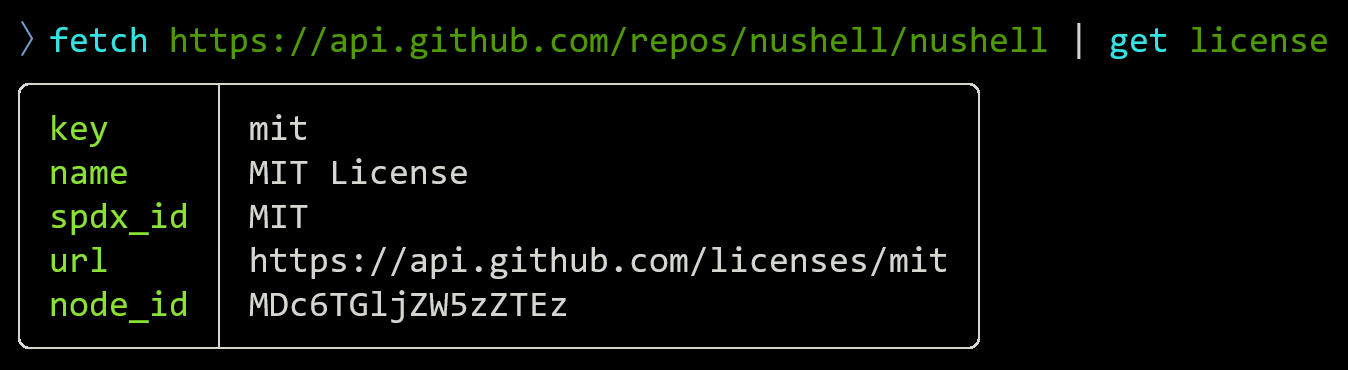
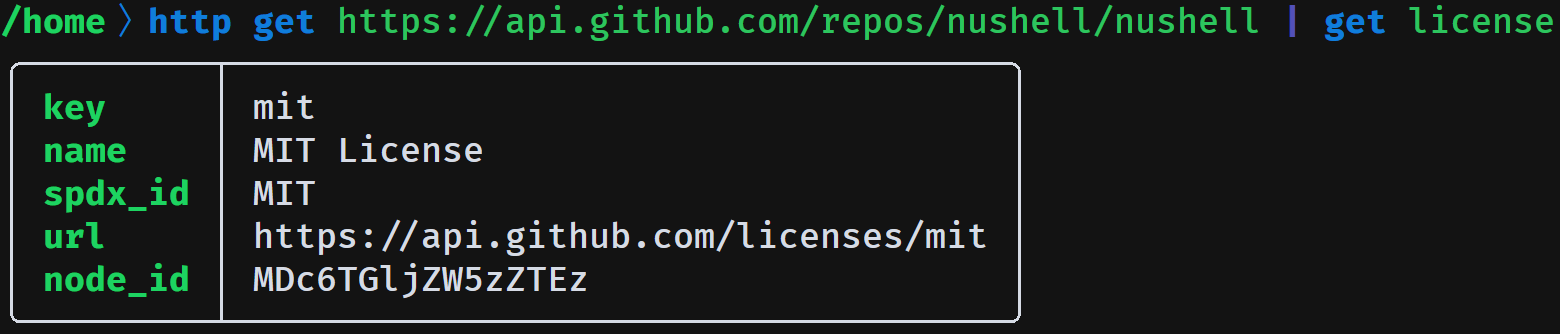
replaces fetch with http in varius places (#769)
* Updated cookbook with http get instead of fetch.

* updates fetch to http where i could find it.

* updated fetch example image with http get.

* Update mapa_imperativo_nushell.md

* Updated with higher res image.

Changed region(s): [[0.0, 0.1796, 0.7166, 0.988], [0.0, 0.0, 0.997, 0.1796], [0.1558, 0.2695, 0.3427, 0.509]]

diff --git a/book/nushell_map_imperative.md b/book/nushell_map_imperative.md
@@ -16,7 +16,7 @@ Note: this table assumes Nu 0.43 or later.
 | du           | shutil.disk_usage             |                                                     |                         |                                               |
 | each         | for                           | for                                                 | for                     | for                                           |
 | exit         | exit                          | System.exit, kotlin.system.exitProcess              | exit                    | exit                                          |
-| fetch        | urllib.request.urlopen        |                                                     |                         |                                               |
+| http get     | urllib.request.urlopen        |                                                     |                         |                                               |
 | first        | list[:x]                      | List[0], peek                                       | vector[0], top          | Vec[0]                                        |
 | format       | format                        | format                                              | format                  | format!                                       |
 | from         | csv, json, sqlite3            |                                                     |                         |                                               |
@@ -40,7 +40,7 @@ Note: this table assumes Nu 0.43 or later.
 | get          | list[x]                       | List[x]                                             | vector[x]               | Vec[x]                                        |
 | open         | open                          |                                                     |                         |                                               |
 | transpose    | zip(\*matrix)                 |                                                     |                         |                                               |
-| post         | urllib.request.urlopen        |                                                     |                         |                                               |
+| http post    | urllib.request.urlopen        |                                                     |                         |                                               |
 | prepend      | deque.appendleft              |                                                     |                         |                                               |
 | print        | print                         | println                                             | printf                  | println!                                      |
 | ps           | os.listdir('/proc')           |                                                     |                         |                                               |
@@ -74,4 +74,3 @@ Note: this table assumes Nu 0.43 or later.
 | where        | filter                        | filter                                              | filter                  | filter                                        |
 | which        | shutil.which                  |                                                     |                         |                                               |
 | wrap         | { "key" : val }               |                                                     |                         |                                               |
-

diff --git a/ja/book/nushell_map.md b/ja/book/nushell_map.md
@@ -31,7 +31,6 @@
 | enter             | -                                                | -                                                    |                                            |                                                 |
 | evaluate_by       |                                                  |                                                      |                                            |                                                 |
 | exit              | -                                                |                                                      | exit                                       | exit                                            |
-| fetch(`*`)        | -                                                | HttpClient,WebClient, HttpWebRequest/Response        | Invoke-WebRequest                          | wget                                            |
 | first             | top, limit                                       | First, FirstOrDefault                                | Select-Object -First                       | head                                            |
 | format            |                                                  | String.Format                                        | String.Format                              |                                                 |
 | from              | import flatfile, openjson, cast(variable as xml) | -                                                    | Import/ConvertFrom-{Csv,Xml,Html,Json}     |                                                 |
@@ -41,6 +40,7 @@
 | help              | sp_help                                          | -                                                    | Get-Help, help, man                        | man                                             |
 | histogram         | -                                                | -                                                    |                                            |                                                 |
 | history           | -                                                | -                                                    | Get-History, history                       | history                                         |
+| http(`*`)         | -                                                | HttpClient,WebClient, HttpWebRequest/Response        | Invoke-WebRequest                          | wget                                            |
 | inc(`*`)          | -                                                |                                                      | -                                          | -                                               |
 | insert            |                                                  |                                                      | Add-Member                                 |                                                 |
 | is_empty          | is null                                          | String.InNullOrEmpty                                 | String.InNullOrEmpty                       |                                                 |

diff --git a/zh-CN/book/nushell_map.md b/zh-CN/book/nushell_map.md
@@ -27,7 +27,6 @@
 | echo                   | print, union all              |   -                                                  | Write-Output, write                        | echo                                            |
 | enter                  |   -                           |   -                                                  |                                            |                                                 |
 | exit                   |   -                           |                                                      | exit                                       | exit                                            |
-| fetch                  |   -                           | HttpClient,WebClient, HttpWebRequest/Response        | Invoke-WebRequest                          | wget                                            |
 | first                  | top, limit                    | First, FirstOrDefault                                | Select-Object -First                       | head                                            |
 | format                 |                               | String.Format                                        | String.Format                              |                                                 |
 | from                   | import flatfile, openjson, cast(variable as xml) |   -                               | Import/ConvertFrom-{Csv,Xml,Html,Json}     |                                                 |
@@ -37,6 +36,7 @@
 | help                   | sp_help                       |   -                                                  | Get-Help, help, man                        | man                                             |
 | histogram              |   -                           |   -                                                  |                                            |                                                 |
 | history                |   -                           |   -                                                  | Get-History, history                       | history                                         |
+| http(`*`)              |   -                           | HttpClient,WebClient, HttpWebRequest/Response        | Invoke-WebRequest                         | wget                                          |
 | inc(`*`)               |   -                           |                                                      |   -                                        |   -                                             |
 | is_empty               | is null                       | String.InNullOrEmpty                                 | String.InNullOrEmpty                       |                                                 |
 | keep, =take            | top, limit                    | Take                                                 | Select-Object -First                       | head                                            |

diff --git a/es/book/mapa_nushell.md b/es/book/mapa_nushell.md
@@ -31,7 +31,6 @@ Nota: Esta tabla asume Nu 0.14.1 o posterior.
 | enter           | N/A                           | N/A                                                  |                                            |                                                 |
 | evaluate_by     |                               |                                                      |                                            |                                                 |
 | exit            | N/A                           |                                                      | exit                                       | exit                                            |
-| fetch(`*`)      | N/A                           | HttpClient,WebClient, HttpWebRequest/Response        | Invoke-WebRequest                          | wget                                            |
 | first           | top, limit                    | First, FirstOrDefault                                | Select-Object -First                       | head                                            |
 | format          |                               | String.Format()                                      | String.Format()                            |                                                 |
 | from bson       | N/A                           | N/A                                                  | N/A                                        |                                                 |
@@ -56,6 +55,7 @@ Nota: Esta tabla asume Nu 0.14.1 o posterior.
 | help            | sp_help                       | N/A                                                  | Get-Help, help, man                        | man                                             |
 | histogram       | N/A                           | N/A                                                  |                                            |                                                 |
 | history         | N/A                           | N/A                                                  | Get-History, history                       | history                                         |
+| http(`*`)       | N/A                           | HttpClient,WebClient, HttpWebRequest/Response        | Invoke-WebRequest                          | wget                                            |
 | inc(`*`)        | N/A                           |                                                      | N/A                                        | N/A                                             |
 | insert          |                               |                                                      | Add-Member                                 |                                                 |
 | is_empty        | is null                       | String.InNullOrEmpty()                               | String.InNullOrEmpty()                     |                                                 |

diff --git a/zh-CN/book/nushell_map_functional.md b/zh-CN/book/nushell_map_functional.md
@@ -29,7 +29,6 @@
 | echo                      | println                      |                                 | putStrLn, print          |     |
 | enter                     |                              |                                 |                          |     |
 | exit                      | System/exit                  |                                 |                          |     |
-| fetch(`*`)                |                              |                                 |                          |     |
 | first                     | first                        | head                            | head                     |     |
 | format                    | format                       |                                 | Text.Printf.printf       |     |
 | from                      |                              |                                 |                          |     |
@@ -39,6 +38,7 @@
 | help                      | doc                          |                                 |                          |     |
 | histogram                 |                              |                                 |                          |     |
 | history                   |                              |                                 |                          |     |
+| http(`*`)                 |                              |                                 |                          |     |
 | inc(`*`)                  | inc                          |                                 | succ                     |     |
 | insert                    |                              |                                 |                          |     |
 | is-empty                  | empty?                       | isEmpty                         |                          |     |
@@ -82,7 +82,7 @@
 | split column              |                              |                                 |                          |     |
 | split row                 |                              |                                 |                          |     |
 | str(`*`)                  | clojure.string functions     | String functions                |                          |     |
-| str join               | join                         | concat                          | intercalate              |     |
+| str join                  | join                         | concat                          | intercalate              |     |
 | str trim                  | trim, triml, trimr           | trim, trimLeft, trimRight       | strip                    |     |
 | sum                       | apply +                      | sum                             | sum                      |     |
 | sys                       |                              |                                 |                          |     |

diff --git a/ja/book/nushell_map_imperative.md b/ja/book/nushell_map_imperative.md
@@ -30,7 +30,6 @@
 | enter             |                               |                                                     |                         |                                               |
 | evaluate_by       |                               |                                                     |                         |                                               |
 | exit              | exit                          | System.exit, kotlin.system.exitProcess              | exit                    | exit                                          |
-| fetch(`*`)        | urllib.request.urlopen        |                                                     |                         |                                               |
 | first             | list[0]                       | List[0], peek                                       | vector[0], top          | Vec[0]                                        |
 | format            | format                        | format                                              | format                  | format!                                       |
 | from              | csv, json, sqlite3            |                                                     |                         |                                               |
@@ -40,6 +39,7 @@
 | help              | help                          |                                                     |                         |                                               |
 | histogram         |                               |                                                     |                         |                                               |
 | history           |                               |                                                     |                         |                                               |
+| http(`*`)        | urllib.request.urlopen        |                                                     |                         |                                               |
 | inc(`*`)          | x += 1                        | x++                                                 | x++                     | x += 1                                        |
 | insert            | list.insert                   |                                                     |                         |                                               |
 | is_empty          | is None                       | isEmpty                                             | empty                   | is_empty                                      |

diff --git a/cookbook/help.md b/cookbook/help.md
@@ -38,43 +38,44 @@ Output
 To find more specific information on a command, use `help <COMMAND>`.
 
 ```shell
-> help fetch
+> help http get
 ```
 
 Output
 
 ```
-Fetch the contents from a URL (HTTP GET operation).
+Fetch the contents from a URL.
+
+Performs HTTP GET operation.
+
+Search terms: network, fetch, pull, request, download, curl, wget
 
 Usage:
-  > fetch {flags} <URL>
+  > http get {flags} <URL>
 
 Flags:
-  -h, --help
-      Display this help message
-  -u, --user <Any>
-      the username when authenticating
-  -p, --password <Any>
-      the password when authenticating
-  -t, --timeout <Int>
-      timeout period in seconds
-  -H, --headers <Any>
-      custom headers you want to add
-  -r, --raw
-      fetch contents as text rather than a table
+  -h, --help - Display the help message for this command
+  -u, --user <Any> - the username when authenticating
+  -p, --password <Any> - the password when authenticating
+  -t, --timeout <Int> - timeout period in seconds
+  -H, --headers <Any> - custom headers you want to add
+  -r, --raw - fetch contents as text rather than a table
+
+Signatures:
+  <nothing> | http get <string> -> <any>
 
 Parameters:
-  URL: the URL to fetch the contents from
+  URL <string>: the URL to fetch the contents from
 
 Examples:
-  Fetch content from url.com
-  > fetch url.com
+  http get content from example.com
+  > http get https://www.example.com
 
-  Fetch content from url.com, with username and password
-  > fetch -u myuser -p mypass url.com
+  http get content from example.com, with username and password
+  > http get -u myuser -p mypass https://www.example.com
 
-  Fetch content from url.com, with custom header
-  > fetch -H [my-header-key my-header-value] url.com
+  http get content from example.com, with custom header
+  > http get -H [my-header-key my-header-value] https://www.example.com
 ```
 
 ---

diff --git a/book/nushell_map.md b/book/nushell_map.md
@@ -19,7 +19,7 @@ Note: this table assumes Nu 0.43 or later.
 | du                     |                               |                                                      |                                            | du                                              |
 | each                   | cursor                        |                                                      | ForEach-Object, foreach, for               |                                                 |
 | exit                   |                               |                                                      | exit                                       | exit                                            |
-| fetch                  |                               | HttpClient,WebClient, HttpWebRequest/Response        | Invoke-WebRequest                          | wget                                            |
+| http                   |                               | HttpClient,WebClient, HttpWebRequest/Response        | Invoke-WebRequest                          | wget                                            |
 | first                  | top, limit                    | First, FirstOrDefault                                | Select-Object -First                       | head                                            |
 | format                 |                               | String.Format                                        | String.Format                              |                                                 |
 | from                   | import flatfile, openjson, cast(variable as xml) |                                   | Import/ConvertFrom-{Csv,Xml,Html,Json}     |                                                 |

diff --git a/ja/book/nushell_map_functional.md b/ja/book/nushell_map_functional.md
@@ -30,7 +30,6 @@
 | enter             |                              |                                 |                          |     |
 | evaluate_by       |                              |                                 |                          |     |
 | exit              | System/exit                  |                                 |                          |     |
-| fetch(`*`)        |                              |                                 |                          |     |
 | first             | first                        | head                            | head                     |     |
 | format            | format                       |                                 | Text.Printf.printf       |     |
 | from              |                              |                                 |                          |     |
@@ -40,6 +39,7 @@
 | help              | doc                          |                                 |                          |     |
 | histogram         |                              |                                 |                          |     |
 | history           |                              |                                 |                          |     |
+| http(`*`)         |                              |                                 |                          |     |
 | inc(`*`)          | inc                          |                                 | succ                     |     |
 | insert            |                              |                                 |                          |     |
 | is-empty          | empty?                       | isEmpty                         |                          |     |

diff --git a/es/book/mapa_funcional_nushell.md b/es/book/mapa_funcional_nushell.md
@@ -30,7 +30,6 @@ Nota: Esta tabla asume Nu 0.14.1 o posterior.
 | enter           |                            |                          |                          |     |
 | evaluate_by     |                            |                          |                          |     |
 | exit            | System/exit                |                          |                          |     |
-| fetch(`*`)      |                            |                          |                          |     |
 | first           | first                      |                          | head                     |     |
 | format          | format                     |                          | Text.Printf.printf       |     |
 | from bson       |                            |                          |                          |     |
@@ -55,6 +54,7 @@ Nota: Esta tabla asume Nu 0.14.1 o posterior.
 | help            | doc                        |                          |                          |     |
 | histogram       |                            |                          |                          |     |
 | history         |                            |                          |                          |     |
+| http(`*`)       |                            |                          |                          |     |
 | inc(`*`)        | inc                        |                          | succ                     |     |
 | insert          |                            |                          |                          |     |
 | is-empty        | empty?                     |                          |                          |     |

diff --git a/cookbook/http.md b/cookbook/http.md
@@ -7,7 +7,7 @@ title: HTTP
 ### Fetching JSON from a url
 
 ```shell
-> fetch https://jsonplaceholder.typicode.com/posts | first 5
+> http get https://jsonplaceholder.typicode.com/posts | first 5
 ```
 
 Output
@@ -63,7 +63,7 @@ An example JSON file, `urls.json`, with the following contents:
 ```
 
 ```shell
-> open urls.json | get urls | each { |u| fetch $u }
+> open urls.json | get urls | each { |u| http get $u }
 ```
 
 Output
@@ -94,7 +94,7 @@ Output
 If you specify the `--raw` flag, you'll see 3 separate json objects, one in each row.
 
 ```shell
-> open urls.json | get urls | each { |u| fetch $u -r }
+> open urls.json | get urls | each { |u| http get $u -r }
 ```
 
 Output
@@ -132,7 +132,7 @@ Output
 To combine these responses together into a valid JSON array, you can turn the table into json.
 
 ```shell
-> open urls.json | get urls | each { |u| fetch $u } | to json
+> open urls.json | get urls | each { |u| http get $u } | to json
 ```
 
 Output
@@ -193,7 +193,7 @@ Output
 We can put this all together into a pipeline where we read data, manipulate it, and then send it back to the API. Lets `fetch` a post, `increment` the id, and `post` it back to the endpoint. In this particular example, the test endpoint gives back an arbitrary response which we can't actually mutate.
 
 ```shell
-> open urls.json | get urls | first | fetch $in | upsert id {|item| $item.id | inc} | to json | post https://jsonplaceholder.typicode.com/posts $in
+> open urls.json | get urls | first | http get $in | upsert id {|item| $item.id | inc} | to json | post https://jsonplaceholder.typicode.com/posts $in
 ```
 
 ```

diff --git a/es/book/mapa_imperativo_nushell.md b/es/book/mapa_imperativo_nushell.md
@@ -30,7 +30,7 @@ Nota: esta tabla asume Nu 0.14.1 o posterior.
 | enter           |                               |                                        |                         |                 |
 | evaluate_by     |                               |                                        |                         |                 |
 | exit            | exit                          | System.exit, kotlin.system.exitProcess | exit                    | exit            |
-| fetch(`*`)      | urllib.request.urlopen        |                                        |                         |                 |
+| http(`*`)       | urllib.request.urlopen        |                                        |                         |                 |
 | first           | list[0]                       | List[0], peek                          | vector[0], top          | vec[0]          |
 | format          | format                        |                                        |                         |                 |
 | from bson       |                               |                                        |                         |                 |
